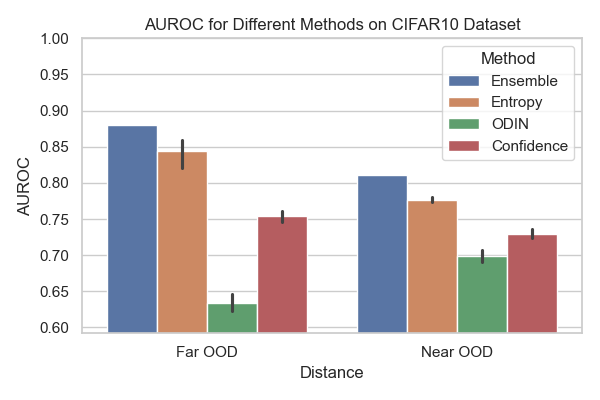
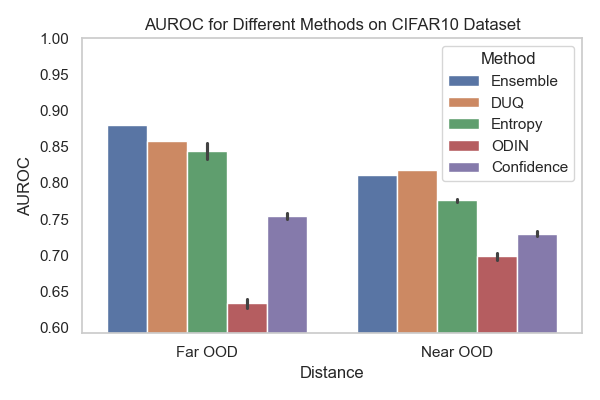
turned grid off in plotting

Changed region(s): [[0.66, 0.24, 0.96, 0.84], [0.24, 0.3, 0.54, 0.84]]

diff --git a/final_plotting.py b/final_plotting.py
@@ -105,6 +105,7 @@ def make_barplot(target_dataset=None):
     ax.set_title(f"AUROC for Different Methods on {target_dataset} Dataset")
     diff = df["AUROC"].max() - df["AUROC"].min()
     ax.set(ylim=(min(df["AUROC"]-(0.1*diff)), 1))
+    plt.grid(False)
     plt.tight_layout()
     plt.savefig("Saved Plots/Overall/"+f"AUROC for Different Methods on {target_dataset} Dataset")
     plt.show()
@@ -144,6 +145,6 @@ def plot_all_rocs():
 
                 
 
-# plot_all_rocs()
+plot_all_rocs()
 make_barplot("MNIST")
-# make_barplot("CIFAR10")
+make_barplot("CIFAR10")
